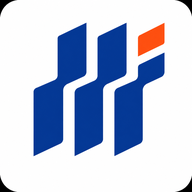
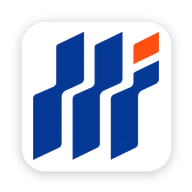
Add files via upload

diff --git a/service-worker.js b/service-worker.js
@@ -1,4 +1,4 @@
-const CACHE_NAME = 'quality-mobile-field-pwa-v10-register-receipt';
+const CACHE_NAME = 'quality-mobile-field-pwa-v12-icon-shape';
 
 const APP_FILES = [
   './',
